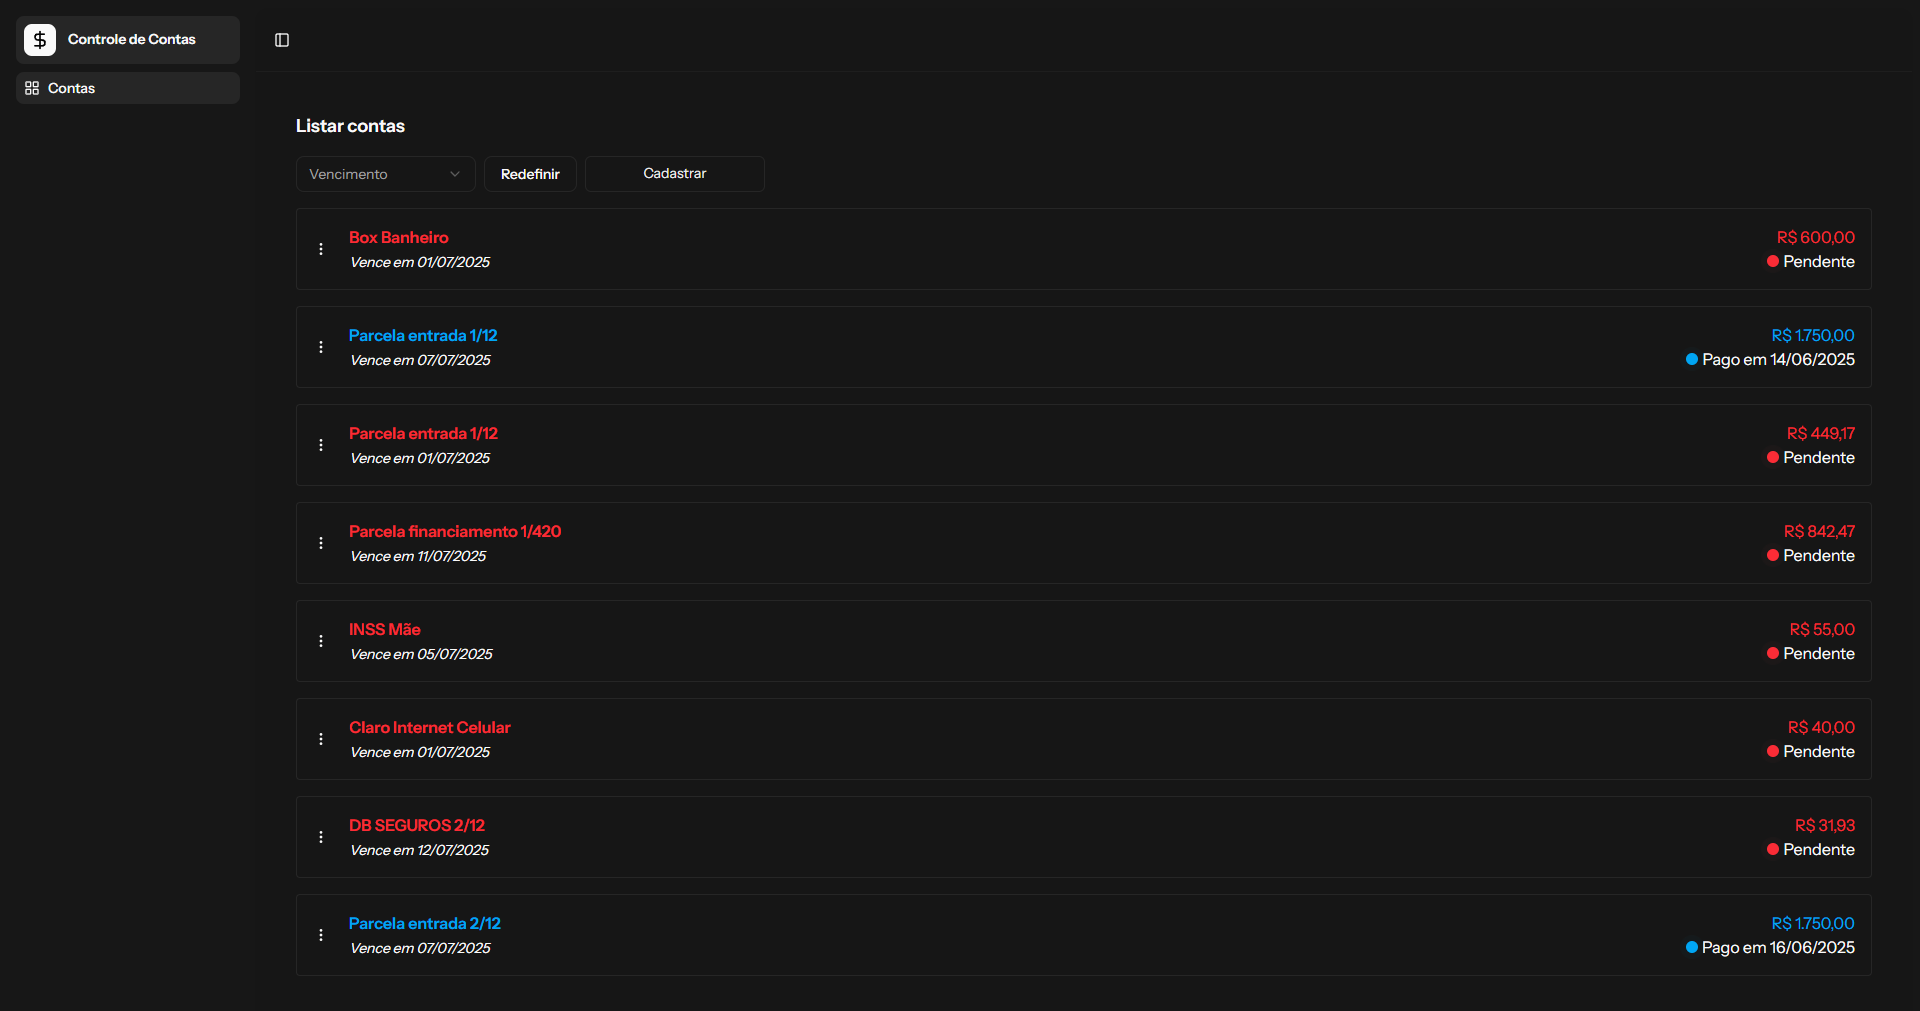
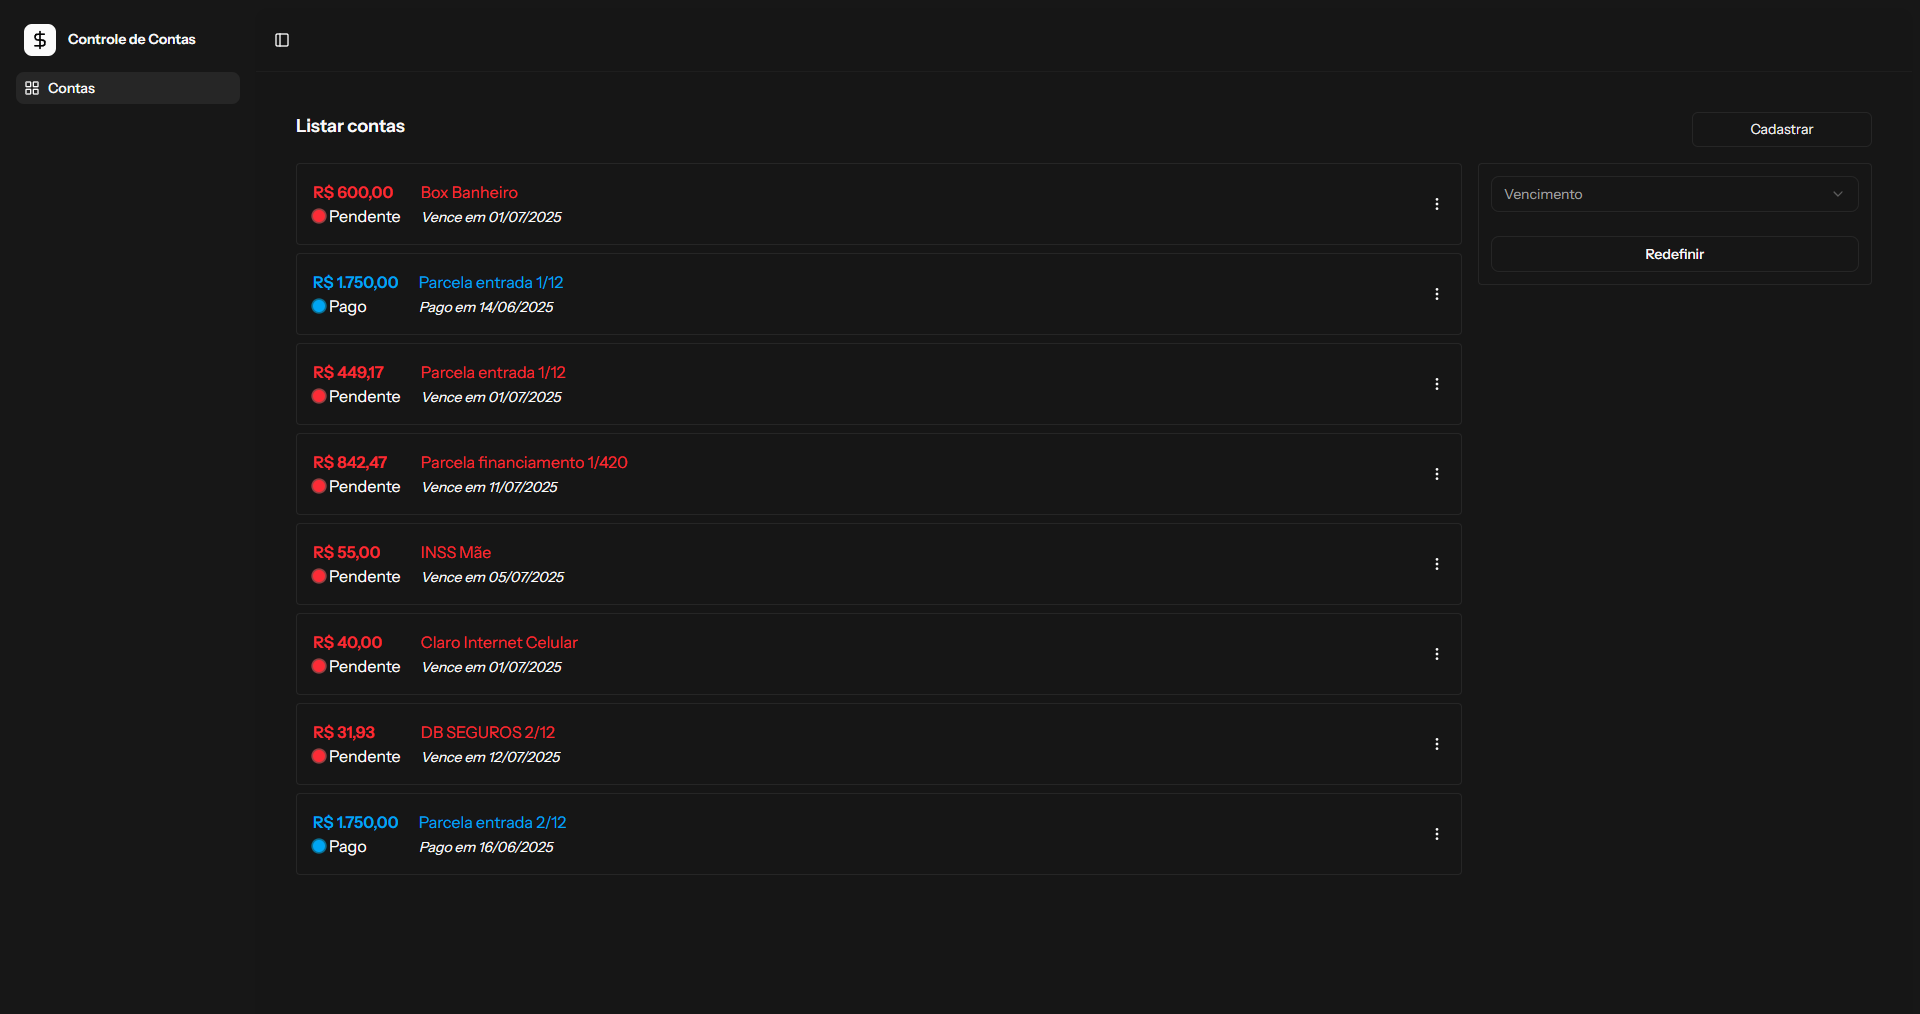
feat: filters aside bills cards

diff --git a/resources/js/pages/bills/index.tsx b/resources/js/pages/bills/index.tsx
@@ -41,78 +41,89 @@ export default function Index({ ...props }) {
         <GuestLayout>
             <Head title="Listar contas" />
             <main className="flex h-full flex-1 flex-col gap-4 rounded-xl p-10">
-                <h1 className="font-bold text-lg">Listar contas</h1>
-                <section className="flex gap-2">
-                    <Select onValueChange={handleMonthSearch}>
-                        <SelectTrigger className="w-[180px]">
-                            <SelectValue placeholder="Vencimento" />
-                        </SelectTrigger>
-                        <SelectContent>
-                            {props.months.map((month) => <SelectItem key={month}
-                                                                     value={month}>{asMonthYear(month)}</SelectItem>)}
-                        </SelectContent>
-                    </Select>
-                    <Button className="cursor-pointer" type="button" variant="outline" onClick={handlerClear}>
-                        Redefinir
-                    </Button>
+                <header className="flex">
+                    <h1 className="font-bold text-lg flex-1">Listar contas</h1>
                     <Link
                         href={route('bills.create')}
                         className="w-[180px] rounded-sm border text-center px-5 py-1.5 text-sm leading-normal text-[#1b1b18] hover:border-[#19140035] dark:text-[#EDEDEC] dark:hover:border-[#3E3E3A]"
                     >
                         Cadastrar
                     </Link>
-                </section>
-
-                {props.bills.length > 0 ?
-                    props.bills.map(bill => (
-                        <div className="flex p-4 gap-5 rounded border" key={bill.id}>
-                            <div className="flex items-center">
-                                <DropdownMenu>
-                                    <DropdownMenuTrigger asChild>
-                                        <EllipsisVertical className="ml-auto size-4 cursor-pointer" />
-                                    </DropdownMenuTrigger>
-                                    <DropdownMenuContent
-                                        className="w-(--radix-dropdown-menu-trigger-width) min-w-56 rounded-lg"
-                                        align="center"
-                                    >
-                                        <DropdownMenuItem
-                                            className="cursor-pointer"
-                                            onSelect={() => router.visit(route('bills.edit', bill.id))}
-                                        >
-                                            Editar
-                                        </DropdownMenuItem>
-                                        <DropdownMenuItem
-                                            className="text-red-500 cursor-pointer"
-                                            onSelect={() => handleDelete(bill.id)}
-                                        >
-                                            Excluir
-                                        </DropdownMenuItem>
-                                    </DropdownMenuContent>
-                                </DropdownMenu>
-                            </div>
-                            <div className="flex-1">
-                                <h1 className={`font-bold ${bill.payment_date ? 'text-sky-500' : 'text-red-500'}`}>{bill.name}</h1>
-                                <span className="text-sm italic">Vence em {asDate(bill.expiration_date)}</span>
-                            </div>
-                            <div className="text-right">
-                                <div className={`${bill.payment_date ? 'text-sky-500' : 'text-red-500'}`}>
-                                    <span>{asCurrency(bill.amount)}</span>
-                                </div>
-                                <div className="flex items-center">
+                </header>
+                <section className="flex gap-4">
+                    <div className="flex flex-col gap-2 flex-1">
+                        {props.bills.length > 0 ?
+                            props.bills.map(bill => (
+                                <div className="flex p-4 gap-5 rounded border" key={bill.id}>
+                                    <div className="text-left">
+                                        <div
+                                            className={`font-bold ${bill.payment_date ? 'text-sky-500' : 'text-red-500'}`}>
+                                            <span>{asCurrency(bill.amount)}</span>
+                                        </div>
+                                        <div className="flex items-center">
                                     <span className="relative flex size-3">
                                       <span
-                                          className={`absolute inline-flex h-full w-full animate-ping rounded-full bg-${bill.payment_date ? 'sky' : 'red'}-400 opacity-75`}></span>
+                                          className={`absolute inline-flex h-full w-full animate-ping rounded-full ${bill.payment_date ? 'bg-sky-400' : 'bg-red-400'} opacity-75`}></span>
                                       <span
-                                          className={`relative inline-flex size-3 rounded-full bg-${bill.payment_date ? 'sky' : 'red'}-500`}></span>
+                                          className={`relative inline-flex size-3 rounded-full ${bill.payment_date ? 'bg-sky-500' : 'bg-red-500'}`}></span>
                                     </span>
-                                    <span className="ml-1">
-                                        {bill.payment_date ? `Pago em ${asDate(bill.payment_date)}` : 'Pendente'}
+                                            <span className="ml-1">
+                                        {bill.payment_date ? `Pago` : 'Pendente'}
                                     </span>
+                                        </div>
+                                    </div>
+
+                                    <div className="flex-1">
+                                        <h1 className={`${bill.payment_date ? 'text-sky-500' : 'text-red-500'}`}>{bill.name}</h1>
+                                        <span className="text-sm italic">
+                                    {bill.payment_date ? `Pago em ${asDate(bill.payment_date)}` : `Vence em ${asDate(bill.expiration_date)}`}
+                                </span>
+                                    </div>
+
+                                    <div className="flex items-center">
+                                        <DropdownMenu>
+                                            <DropdownMenuTrigger asChild>
+                                                <EllipsisVertical className="ml-auto size-4 cursor-pointer" />
+                                            </DropdownMenuTrigger>
+                                            <DropdownMenuContent
+                                                className="w-(--radix-dropdown-menu-trigger-width) min-w-56 rounded-lg"
+                                                align="end"
+                                            >
+                                                <DropdownMenuItem
+                                                    className="cursor-pointer"
+                                                    onSelect={() => router.visit(route('bills.edit', bill.id))}
+                                                >
+                                                    Editar
+                                                </DropdownMenuItem>
+                                                <DropdownMenuItem
+                                                    className="text-red-500 cursor-pointer"
+                                                    onSelect={() => handleDelete(bill.id)}
+                                                >
+                                                    Excluir
+                                                </DropdownMenuItem>
+                                            </DropdownMenuContent>
+                                        </DropdownMenu>
+                                    </div>
                                 </div>
-                            </div>
-                        </div>
-                    ))
-                    : 'Nenhuma conta foi cadastrada'}
+                            ))
+                            : 'Nenhuma conta foi cadastrada'}
+                    </div>
+                    <div className="flex flex-col gap-3 w-1/4 p-3 border rounded max-h-fit">
+                        <Select onValueChange={handleMonthSearch}>
+                            <SelectTrigger>
+                                <SelectValue placeholder="Vencimento" />
+                            </SelectTrigger>
+                            <SelectContent>
+                                {props.months.map((month) => <SelectItem key={month}
+                                                                         value={month}>{asMonthYear(month)}</SelectItem>)}
+                            </SelectContent>
+                        </Select>
+                        <Button className="w-full cursor-pointer mt-3" type="button" variant="outline"
+                                onClick={handlerClear}>
+                            Redefinir
+                        </Button>
+                    </div>
+                </section>
             </main>
         </GuestLayout>
     );
